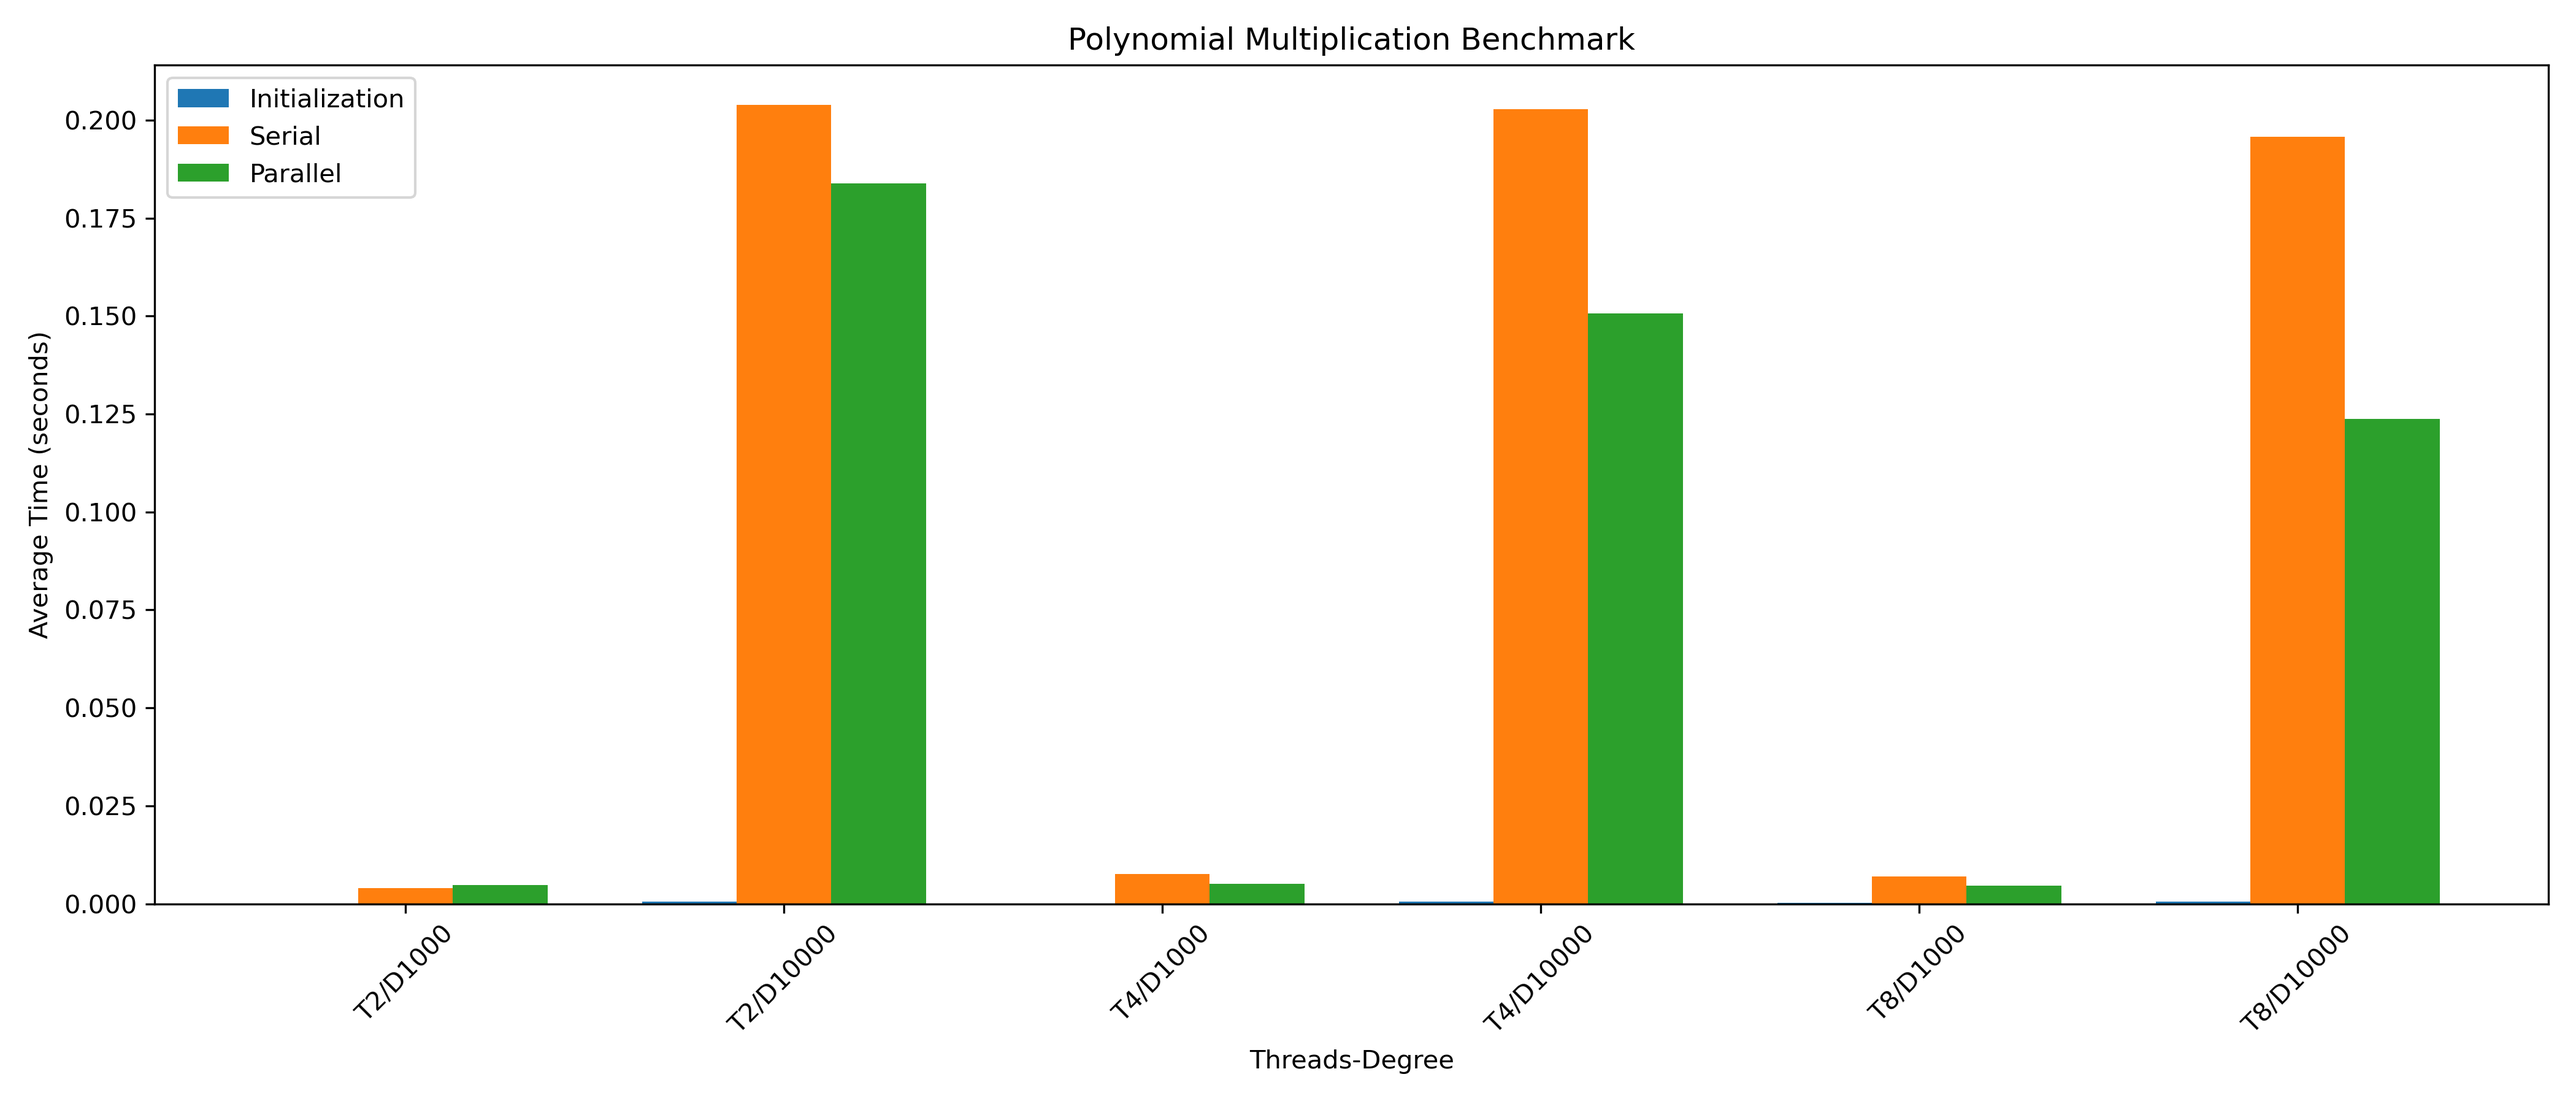
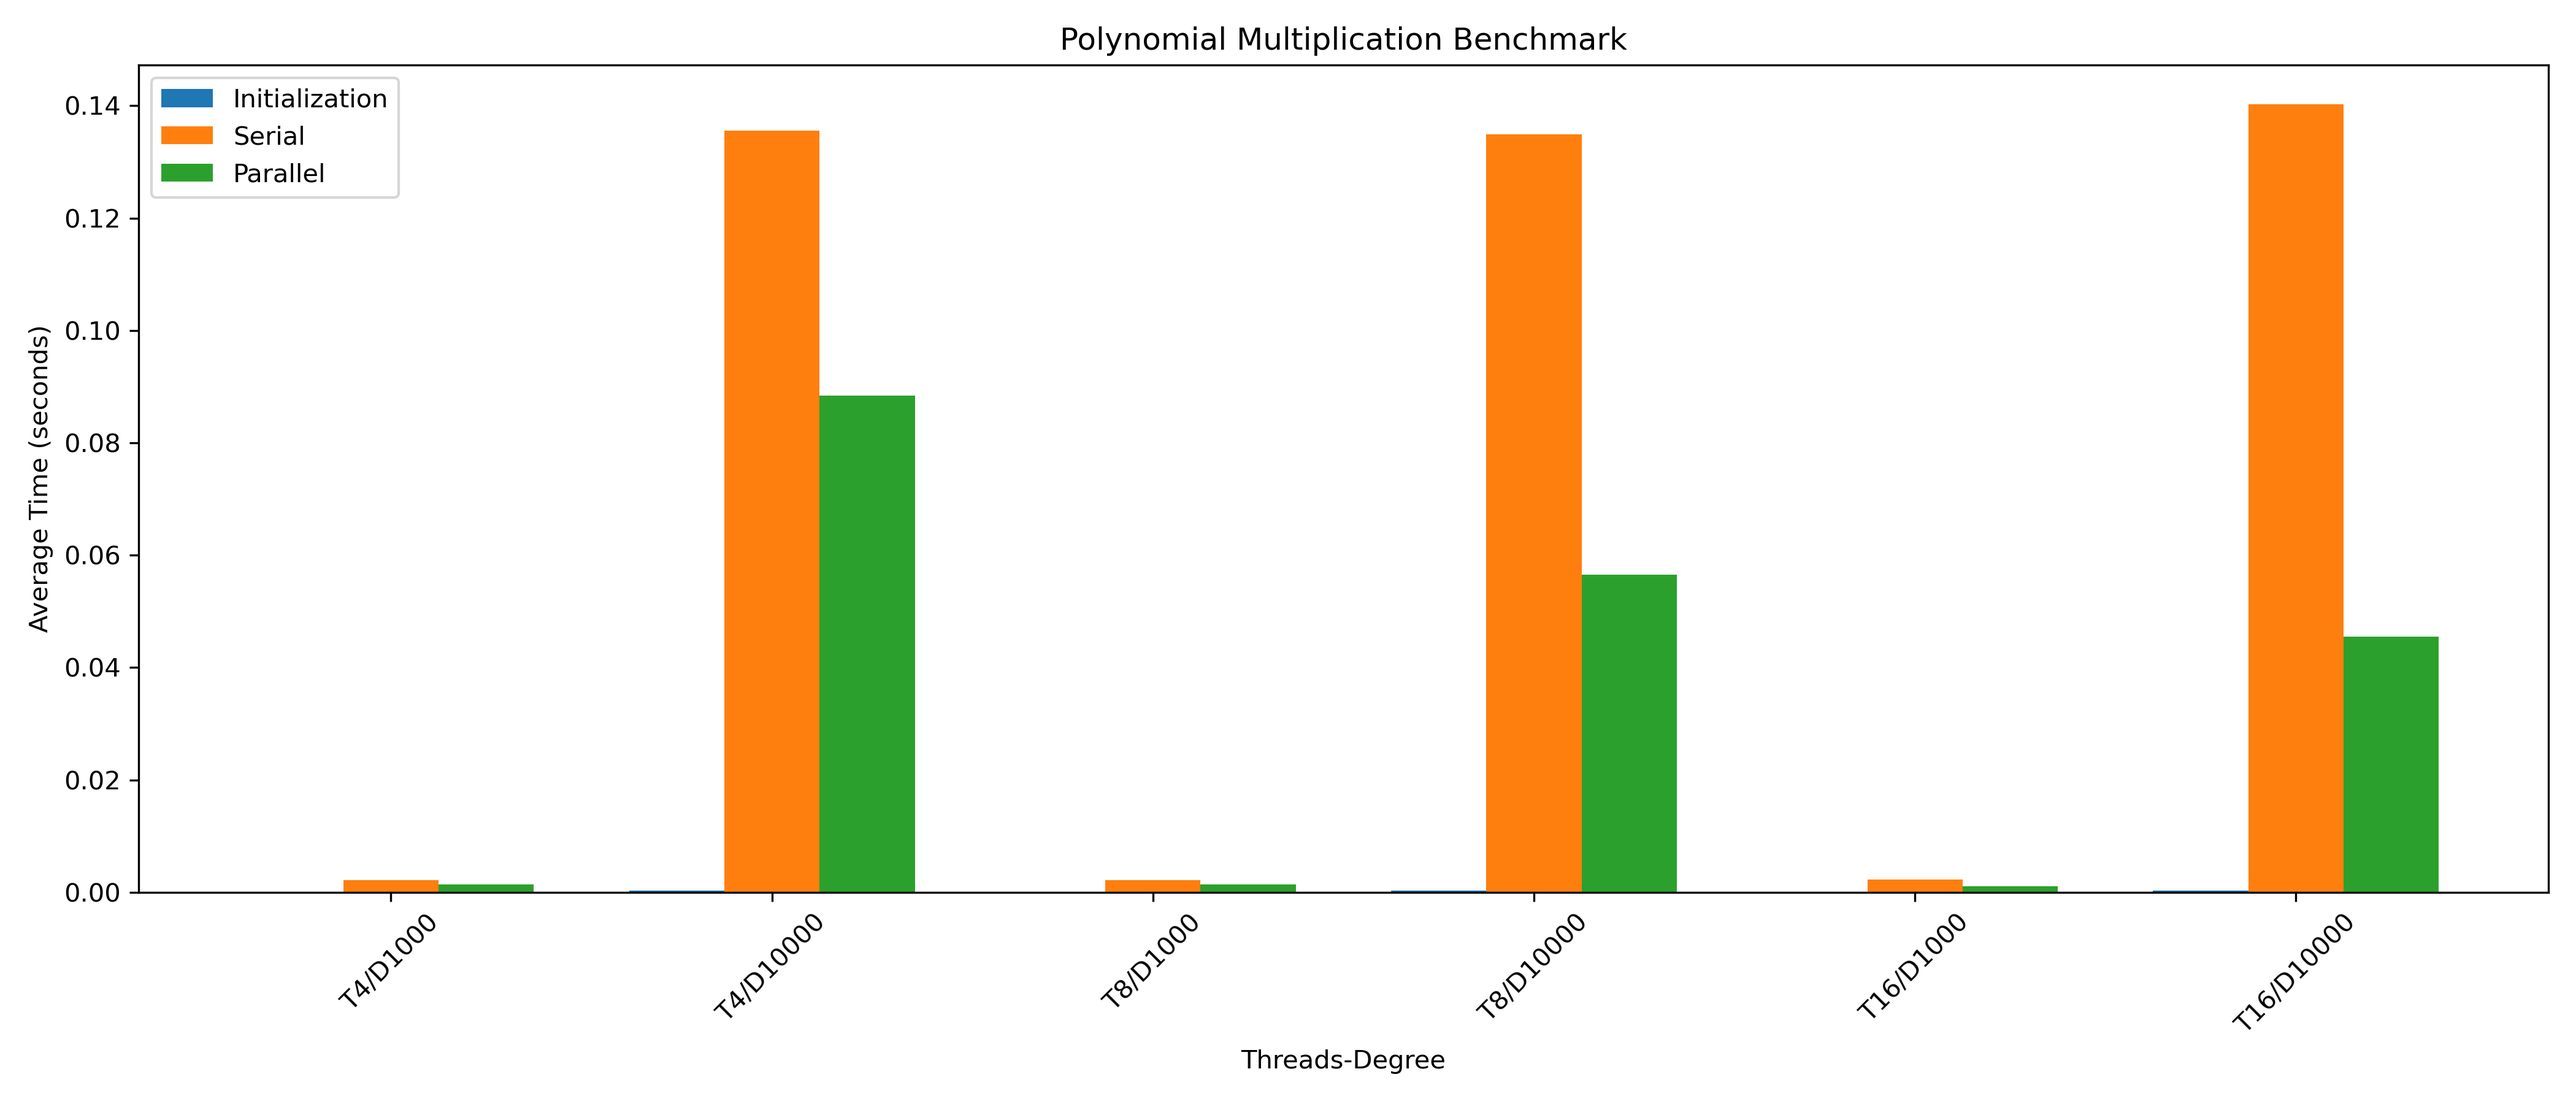
fix script 1]

diff --git a/Assignment-1/Exercise-1/script.py b/Assignment-1/Exercise-1/script.py
@@ -1,56 +1,49 @@
-import subprocess
-import matplotlib.pyplot as plt
-import re
-import numpy as np
-
+import subprocess 
+import matplotlib.pyplot as plt 
+import re 
+import numpy as np 
 # Degrees of polynomials and number of threads to test 
-polyonomial_degrees = [ 10**3, 10**4]
-thread_num =[2,4 ,8]
+polyonomial_degrees = [ 10**3, 10**4, 10**5 , 10**6] 
+thread_num =[4 ,8,16] 
 
-# Storage structures
-parallel_times = {t: [] for t in thread_num}   # parallel times for each thread count
-serial_time = []                                # serial time is same regardless of thread count
-init_time = []                                   # optional if you need it
 
-# Regex patterns
-init_re = re.compile(r"Initialization time: ([0-9.]+) seconds")
-serial_re = re.compile(r"Serial multiplication time: ([0-9.]+) seconds")
-parallel_re = re.compile(r"Parallel multiplication time: ([0-9.]+) seconds")
+# Array to store times 
+initialization_time = [] 
+serial_time = [] 
+parallel_time = [] 
 
-num_runs = 5
+# Regex patterns to capture times from output 
+init_re = re.compile(r"Initialization time: ([0-9.]+) seconds") 
+serial_re = re.compile(r"Serial multiplication time: ([0-9.]+) seconds") 
+parallel_re = re.compile(r"Parallel multiplication time: ([0-9.]+) seconds") 
+num_runs = 5 
 
 # Results dictionary: method -> {(threads, degree): avg_time}
 results = {"Initialization": {}, "Serial": {}, "Parallel": {}}
 
-for  degree in polyonomial_degrees:
-    print(f"Running for polynomial degree: {degree}")
-    
+for degree in  polyonomial_degrees: 
+    print(f"Running for polynomial degree: {degree}") 
+    for threads in thread_num : 
+        print(f" Using {threads} threads") 
 
-    for threads in thread_num :
-        print(f"  Using {threads} threads")
+        # Temporary lists to store times for averaging 
+        run_temp_init = [] 
+        run_temp_serial = [] 
+        run_temp_parallel = [] 
 
-        run_temp_parallel = []
+        for run in range(num_runs): 
+            print(f" Run {run + 1}/{num_runs}") 
+            result = subprocess.run(["./exercise_1", str(degree), str(threads)], stdout=subprocess.PIPE, stderr=subprocess.PIPE, text=True) 
+            output = result.stdout 
 
-        for run in range(num_runs):
-            result = subprocess.run(["./exercise_1", str(degree), str(threads)],
-                                    stdout=subprocess.PIPE,
-                                    stderr=subprocess.PIPE,
-                                    text=True)
-            output = result.stdout
-
+            # Extract times using regex 
+            run_temp_init.append(float(init_re.search(output).group(1))) 
+            run_temp_serial.append(float(serial_re.search(output).group(1))) 
             run_temp_parallel.append(float(parallel_re.search(output).group(1)))
 
-        # Compute average times
-        avg_init_time = sum(run_temp_init) / num_runs
-        avg_serial_time = sum(run_temp_serial) / num_runs
-        avg_parallel_time = sum(run_temp_parallel) / num_runs
-
-        # Store average times in results dictionary
-        results["Initialization"][(threads, degree)] = avg_init_time
-        results["Serial"][(threads, degree)] = avg_serial_time
-        results["Parallel"][(threads, degree)] = avg_parallel_time
-
-        
+        results["Initialization"][(threads, degree)] = sum(run_temp_init) / num_runs
+        results["Serial"][(threads, degree)] = sum(run_temp_serial) / num_runs      
+        results["Parallel"][(threads, degree)] = sum(run_temp_parallel) / num_runs
 
 
 labels = [f"T{t}/D{d}" for t in thread_num for d in polyonomial_degrees]
